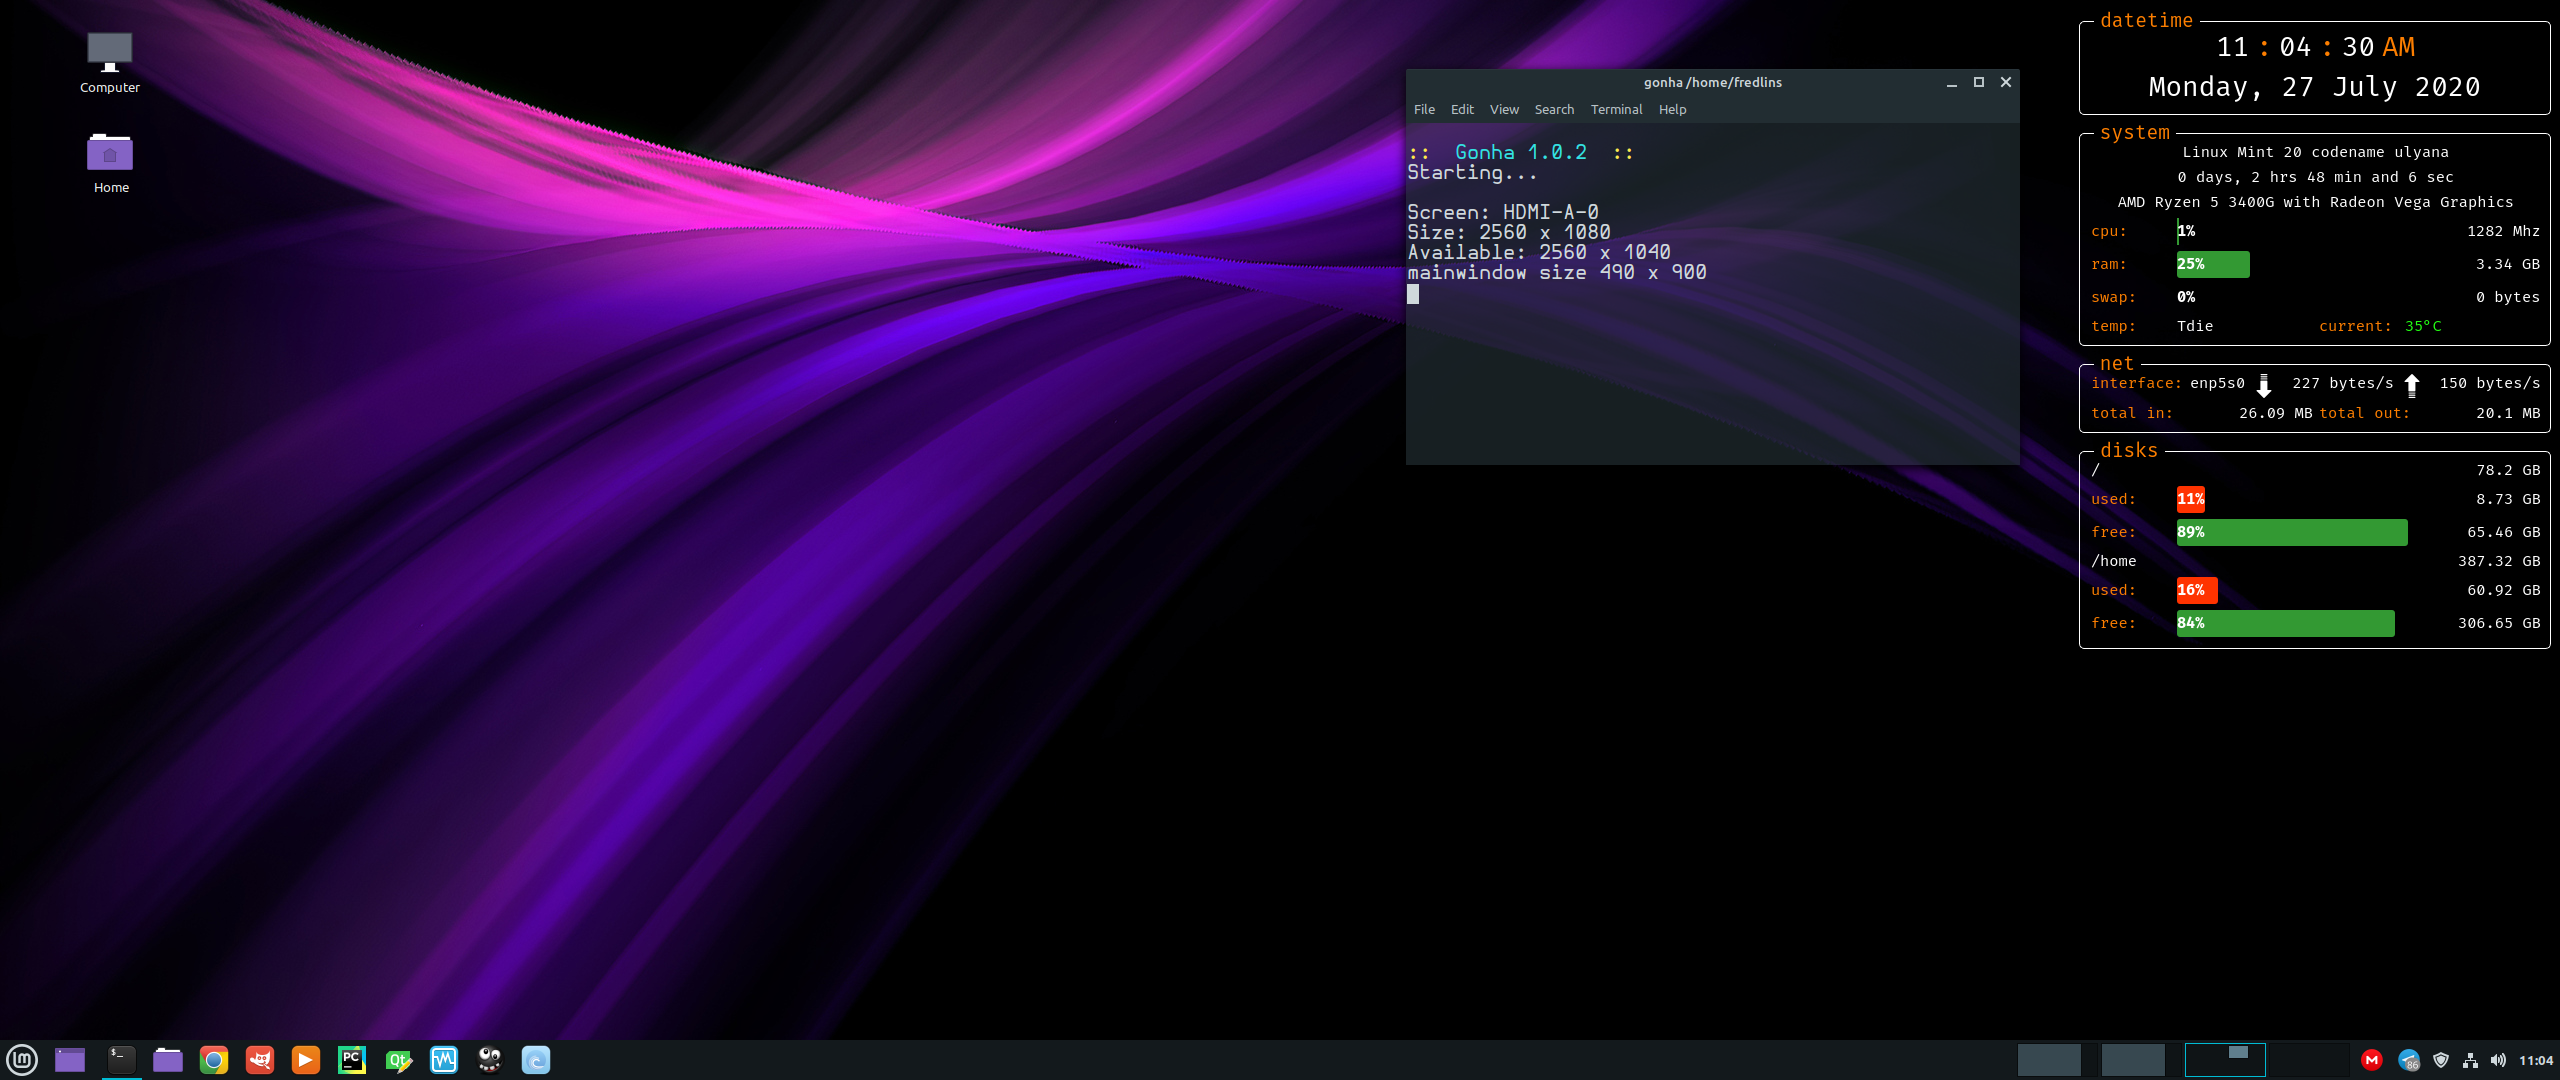
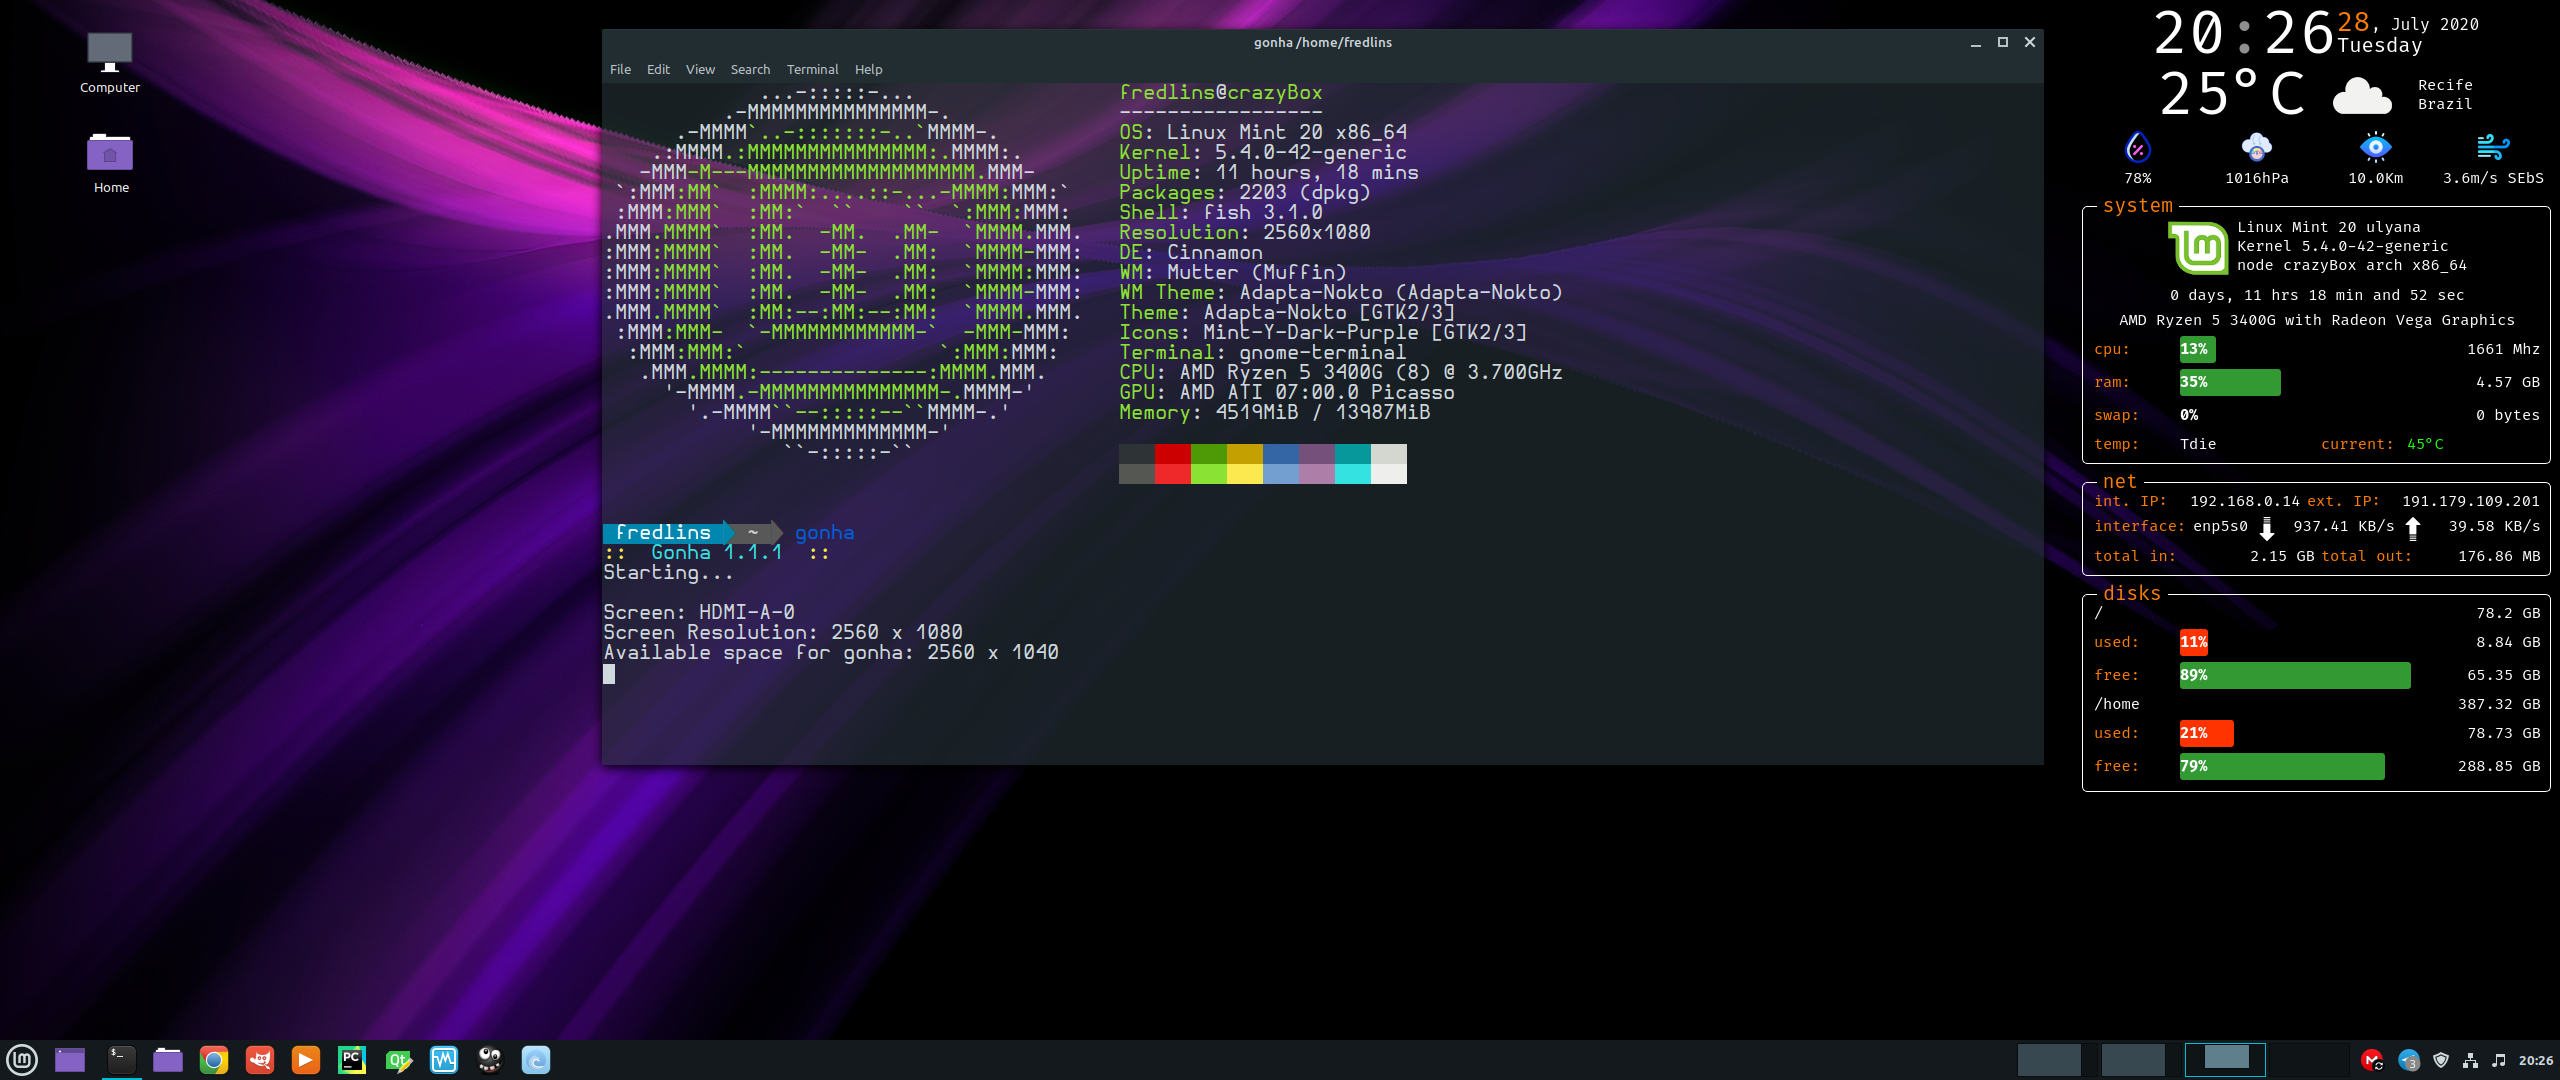
Prepare to release 1.1.1

diff --git a/gonha/mainwindow.py b/gonha/mainwindow.py
@@ -22,6 +22,7 @@ class MainWindow(QtWidgets.QMainWindow):
     systemWidgets = dict()
     verticalLayout = QtWidgets.QVBoxLayout()
     weather = Weather()
+    debugRed = 'background-color: rgb(255, 48, 79);'
 
     def __init__(self):
         super(MainWindow, self).__init__()
@@ -117,7 +118,6 @@ class MainWindow(QtWidgets.QMainWindow):
 
         self.loadPosition()
         self.displayDTWeather()
-        # self.displayweather()
         self.displaySystem()
         self.displayIface()
         self.displayPartitions()
@@ -239,10 +239,10 @@ class MainWindow(QtWidgets.QMainWindow):
 
     def displayDTWeather(self):
         countries = dict(countries_for_language('en'))
-        debugRed = 'background-color: rgb(255, 48, 79);'
         timeHeight = 50
         dateHeight = 25
         tempHeight = 60
+        labelDefaultHeight = 15
 
         timeFont = QtGui.QFont('Fira Code', 45)
         dayFont = QtGui.QFont('Fira Code', 20)
@@ -343,6 +343,7 @@ class MainWindow(QtWidgets.QMainWindow):
         weatherHBLayout = QtWidgets.QHBoxLayout()
 
         weatherVBLayout = QtWidgets.QVBoxLayout()
+        weatherVBLayout.setSpacing(0)
         weatherVBLayout.setAlignment(QtCore.Qt.AlignVCenter)
 
         tempLabel = QtWidgets.QLabel('22°C')
@@ -366,13 +367,10 @@ class MainWindow(QtWidgets.QMainWindow):
         weatherHBLayout.setAlignment(QtCore.Qt.AlignHCenter)
 
         cityRegionLabel = QtWidgets.QLabel(
-            f"{self.config.getConfig('location')['city']}, {self.config.getConfig('location')['region']}")
-        cityRegionLabel.setFont(self.fontDefault)
-        cityRegionLabel.setStyleSheet(self.white)
+            f"{self.config.getConfig('location')['city']}")
+        self.setLabel(cityRegionLabel, self.white, self.fontDefault)
 
         countryLabel = QtWidgets.QLabel(countries[self.config.getConfig('location')['country']])
-        countryLabel.setFont(self.fontDefault)
-        countryLabel.setStyleSheet(self.white)
         self.setLabel(countryLabel, self.white, self.fontDefault)
 
         weatherVBLayout.addWidget(cityRegionLabel)
@@ -434,6 +432,7 @@ class MainWindow(QtWidgets.QMainWindow):
 
     def displaySystem(self):
         labelDefaultWidth = 80
+        labelDefaultHeight = 15
 
         systemGroupBox = QtWidgets.QGroupBox('system')
         systemGroupBox.setFont(self.fontGroupBox)
@@ -451,25 +450,29 @@ class MainWindow(QtWidgets.QMainWindow):
         distroHBLayout = QtWidgets.QHBoxLayout()
         distroHBLayout.setAlignment(QtCore.Qt.AlignHCenter)
         distroVBLayout = QtWidgets.QVBoxLayout()
+        distroVBLayout.setSpacing(0)
 
         distroIcon = QtWidgets.QLabel()
         distroIcon.setPixmap(QtGui.QPixmap(distroJson['iconfile']))
-        distroIcon.setMinimumSize(QtCore.QSize(32, 32))
+        distroIcon.setFixedHeight(64)
 
         distroHBLayout.addWidget(distroIcon)
         # ---------------------------------------------------------------------------
         # Distro label
         distroLabel = QtWidgets.QLabel(distroStr)
         self.setLabel(distroLabel, self.white, self.fontDefault)
+        distroLabel.setFixedHeight(labelDefaultHeight)
         # ---------------------------------------------------------------------------
         # kernel label
         platJson = self.config.getConfig('platform')
         kernelLabel = QtWidgets.QLabel(f"Kernel {platJson['release']}")
         self.setLabel(kernelLabel, self.white, self.fontDefault)
+        kernelLabel.setFixedHeight(labelDefaultHeight)
         # ---------------------------------------------------------------------------
         # Machine Label
         machineLabel = QtWidgets.QLabel(f"node {platJson['node']} arch {platJson['machine']}")
         self.setLabel(machineLabel, self.white, self.fontDefault)
+        machineLabel.setFixedHeight(labelDefaultHeight)
         # ---------------------------------------------------------------------------
         distroVBLayout.addWidget(distroLabel)
         distroVBLayout.addWidget(kernelLabel)
@@ -484,8 +487,10 @@ class MainWindow(QtWidgets.QMainWindow):
 
         bootTimeValueLabel = QtWidgets.QLabel()
         self.setLabel(bootTimeValueLabel, self.white, self.fontDefault)
-        bootTimeValueLabel.setAlignment(QtCore.Qt.AlignCenter)
         self.systemWidgets['boottime'] = bootTimeValueLabel
+
+        bootTimeValueLabel.setAlignment(QtCore.Qt.AlignCenter)
+
         bootTimeHboxLayout.addWidget(bootTimeValueLabel)
 
         verticalLayout.addLayout(bootTimeHboxLayout)
@@ -718,12 +723,11 @@ class MainWindow(QtWidgets.QMainWindow):
         screen = self.app.primaryScreen()
         print('Screen: %s' % screen.name())
         size = screen.size()
-        print('Size: %d x %d' % (size.width(), size.height()))
+        print('Screen Resolution: %d x %d' % (size.width(), size.height()))
         rect = screen.availableGeometry()
-        print('Available: %d x %d' % (rect.width(), rect.height()))
+        print('Available space for gonha: %d x %d' % (rect.width(), rect.height()))
         # move window to top right
         win = self.geometry()
-        print(f'mainwindow size {win.width()} x {win.height()}')
         self.move(rect.width() - win.width(), 0)
 
     def receiveThreadSlowFinish(self, message):

diff --git a/gonha/util.py b/gonha/util.py
@@ -239,7 +239,7 @@ class Config:
 
     @staticmethod
     def getVersion():
-        return '1.1.0'
+        return '1.1.1'
 
     def getExtIp(self):
         return self.myExtIp
